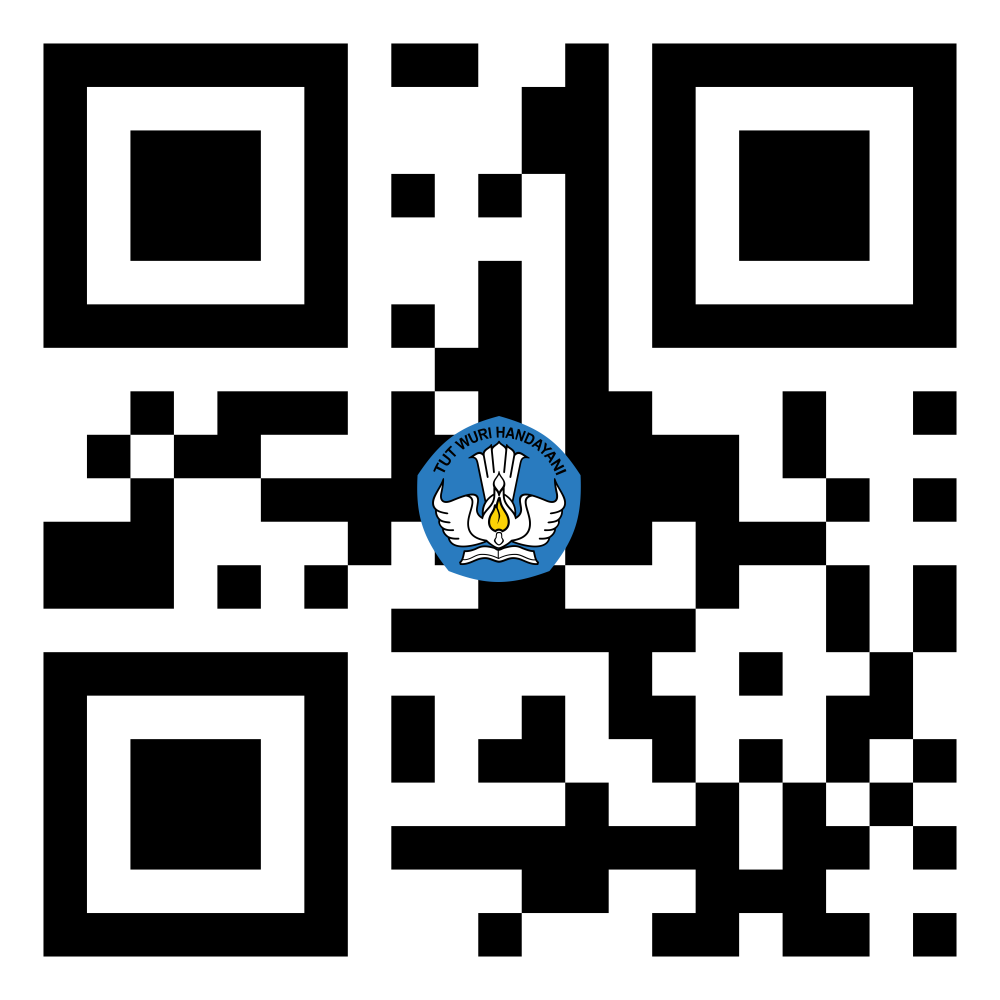
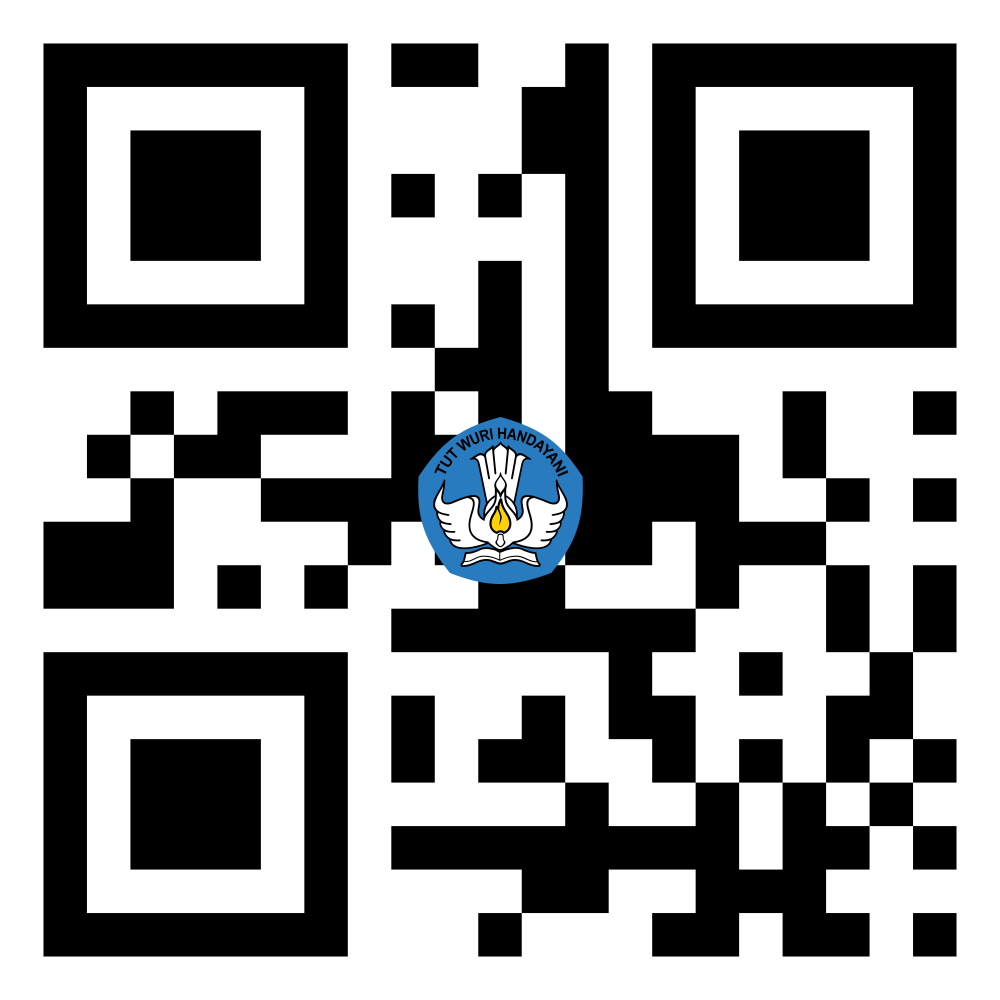
update readme

Changed region(s): [[0.434, 0.403, 0.589, 0.589]]

diff --git a/generate_qr.php b/generate_qr.php
@@ -65,9 +65,13 @@ while (($line = fgetcsv($file)) !== false) {
 
         imagecopyresampled(
             $QR_resized, $logo,
-            $from_width, $from_height, 0, 0,
-            $logo_qr_width, $logo_qr_height, 
-            $logo_width, $logo_height
+            (int) round($from_width),       
+            (int) round($from_height),     
+            0, 0,                           
+            (int) round($logo_qr_width),    
+            (int) round($logo_qr_height),   
+            (int) $logo_width,              
+            (int) $logo_height              
         );
 
         imagedestroy($logo);

diff --git a/README.md b/README.md
@@ -1,2 +1,53 @@
-# qr-code-generator
-A simple PHP-based QR Code generator using the PHP QR Code library. It can be used to create and save QR images from any text or URL.
+🧾 QR Code Generator with Logo (PHP)
+Script sederhana untuk membuat QR Code secara massal dari file CSV menggunakan PHP dan library phpqrcode, dengan dukungan logo di tengah QR.
+Cocok untuk kebutuhan seperti ID santri, kartu pelajar, sistem izin, dan lain-lain.
+
+⚙ Langkah 0 — Prasyarat
+Sebelum menjalankan script, pastikan:
+1.	PHP 7+ sudah terpasang di sistem kamu.
+2.	Ekstensi GD aktif (dibutuhkan untuk manipulasi gambar).
+o	Cek dengan:
+o	php -m | grep gd
+atau buat file phpinfo();
+3.	Library PHP QR Code sudah diunduh
+o	Contoh: phpqrcode di SourceForge
+o	Simpan foldernya di dalam proyek kamu, misal: /phpqrcode/
+4.	Siapkan logo.png (PNG transparan) dan letakkan di folder proyek.
+
+🧩 Langkah 1 — Siapkan Data CSV
+Buat file bernama data.csv (UTF-8) dengan isi seperti ini:
+no_induk
+785
+786
+787
+Simpan di folder yang sama dengan script PHP.
+
+🧠 Langkah 2 — Script PHP (generate_qr.php)
+Script utama untuk membaca CSV dan membuat QR Code satu per satu, lengkap dengan logo di tengah.
+
+💻 Langkah 3 — Jalankan Script
+Cara 1 — Jalankan lewat Command Prompt (cara paling mudah)
+Buka Command Prompt, lalu jalankan:
+cd C:\laragon\www\generator_qrcode
+php generate_qr.php
+Jika berhasil, akan muncul pesan seperti:
+3 QR Code selesai dibuat di folder: C:\laragon\www\generator_qrcode\preview\
+Logo ditambahkan dari: C:\laragon\www\generator_qrcode\logo.png
+
+Cara 2 — Jalankan lewat browser (opsi lain)
+Kamu juga bisa buka lewat browser:
+(http://localhost/generator_qrcode/generate_qr.php)
+Output-nya akan muncul di halaman web:
+3 QR Code selesai dibuat di folder: C:\laragon\www\generator_qrcode/preview/ Logo ditambahkan dari: C:\laragon\www\generator_qrcode/logo.png
+
+🧰 Tips Tambahan
+•	Gunakan QR_ECLEVEL_H untuk toleransi logo yang tinggi.
+•	Jika QR sulit discan:
+o	Perkecil ukuran logo (misal jadi 1/7 dari QR).
+o	Perbesar ukuran QR ($matrixPointSize = 12).
+•	Pastikan logo PNG transparan dan kontras tinggi (hindari warna redup).
+
+📦 Fitur yang Akan Datang
+•	Ambil data dari database MySQL langsung.
+•	Kompres hasil jadi ZIP otomatis.
+•	Ubah ukuran & posisi logo secara dinamis.
